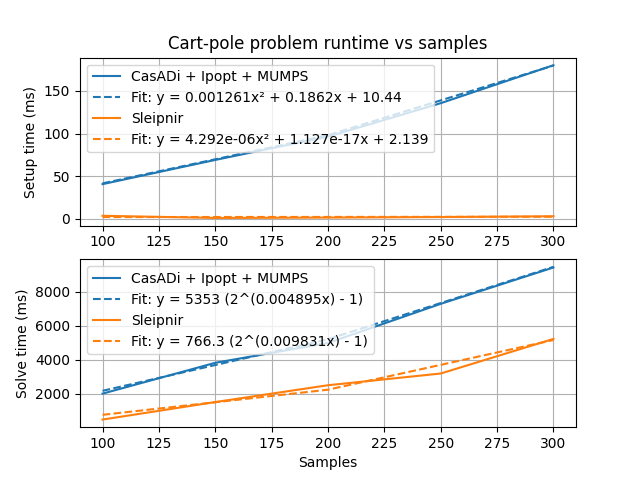
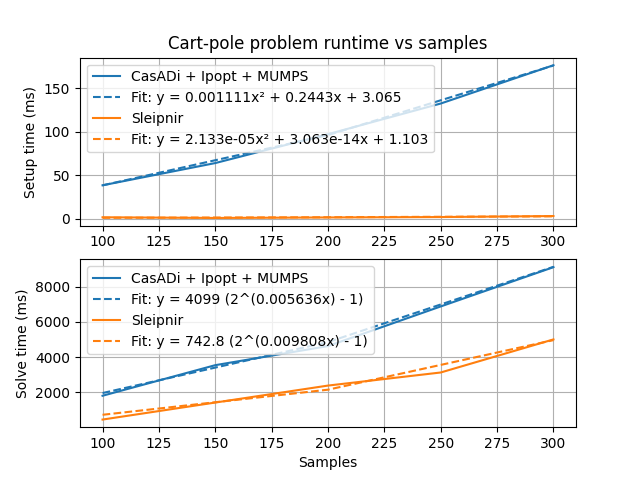
Run benchmarks with CasADi 3.6.6 (#629)

diff --git a/README.md b/README.md
@@ -88,13 +88,13 @@ Generated by [tools/generate-scalability-results.sh](https://github.com/Sleipnir
 
 * CPU: AMD Ryzen 7 7840U
 * RAM: 64 GB, 5600 MHz DDR5
-* Compiler version: g++ (GCC) 14.1.1 20240507
+* Compiler version: g++ (GCC) 14.2.1 20240805
 
 The following thirdparty software was used in the benchmarks:
 
-* CasADi 3.6.5 (autodiff and NLP solver frontend)
+* CasADi 3.6.6 (autodiff and NLP solver frontend)
 * Ipopt 3.14.16 (NLP solver backend)
-* MUMPS 5.6.2 (linear solver)
+* MUMPS 5.7.0 (linear solver)
 
 Ipopt uses MUMPS by default because it has free licensing. Commercial linear solvers may be much faster.
 
